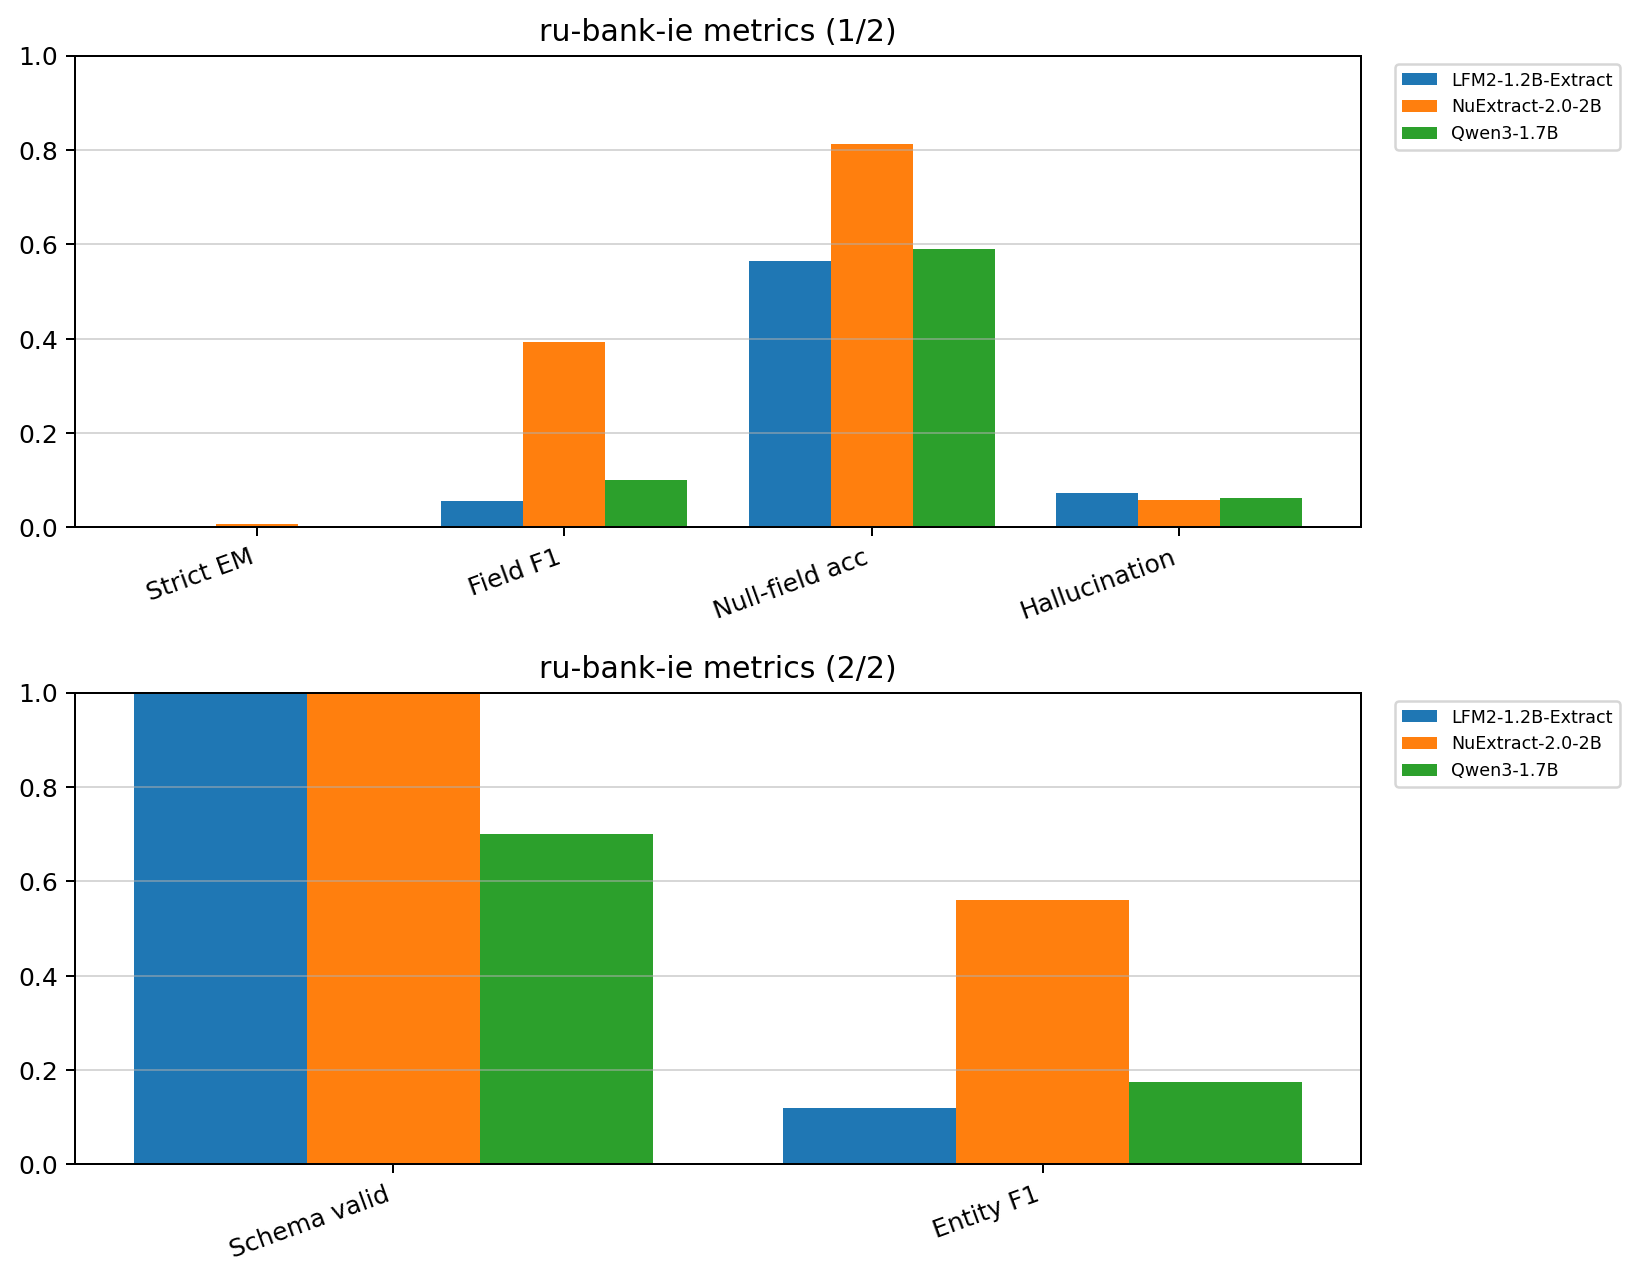
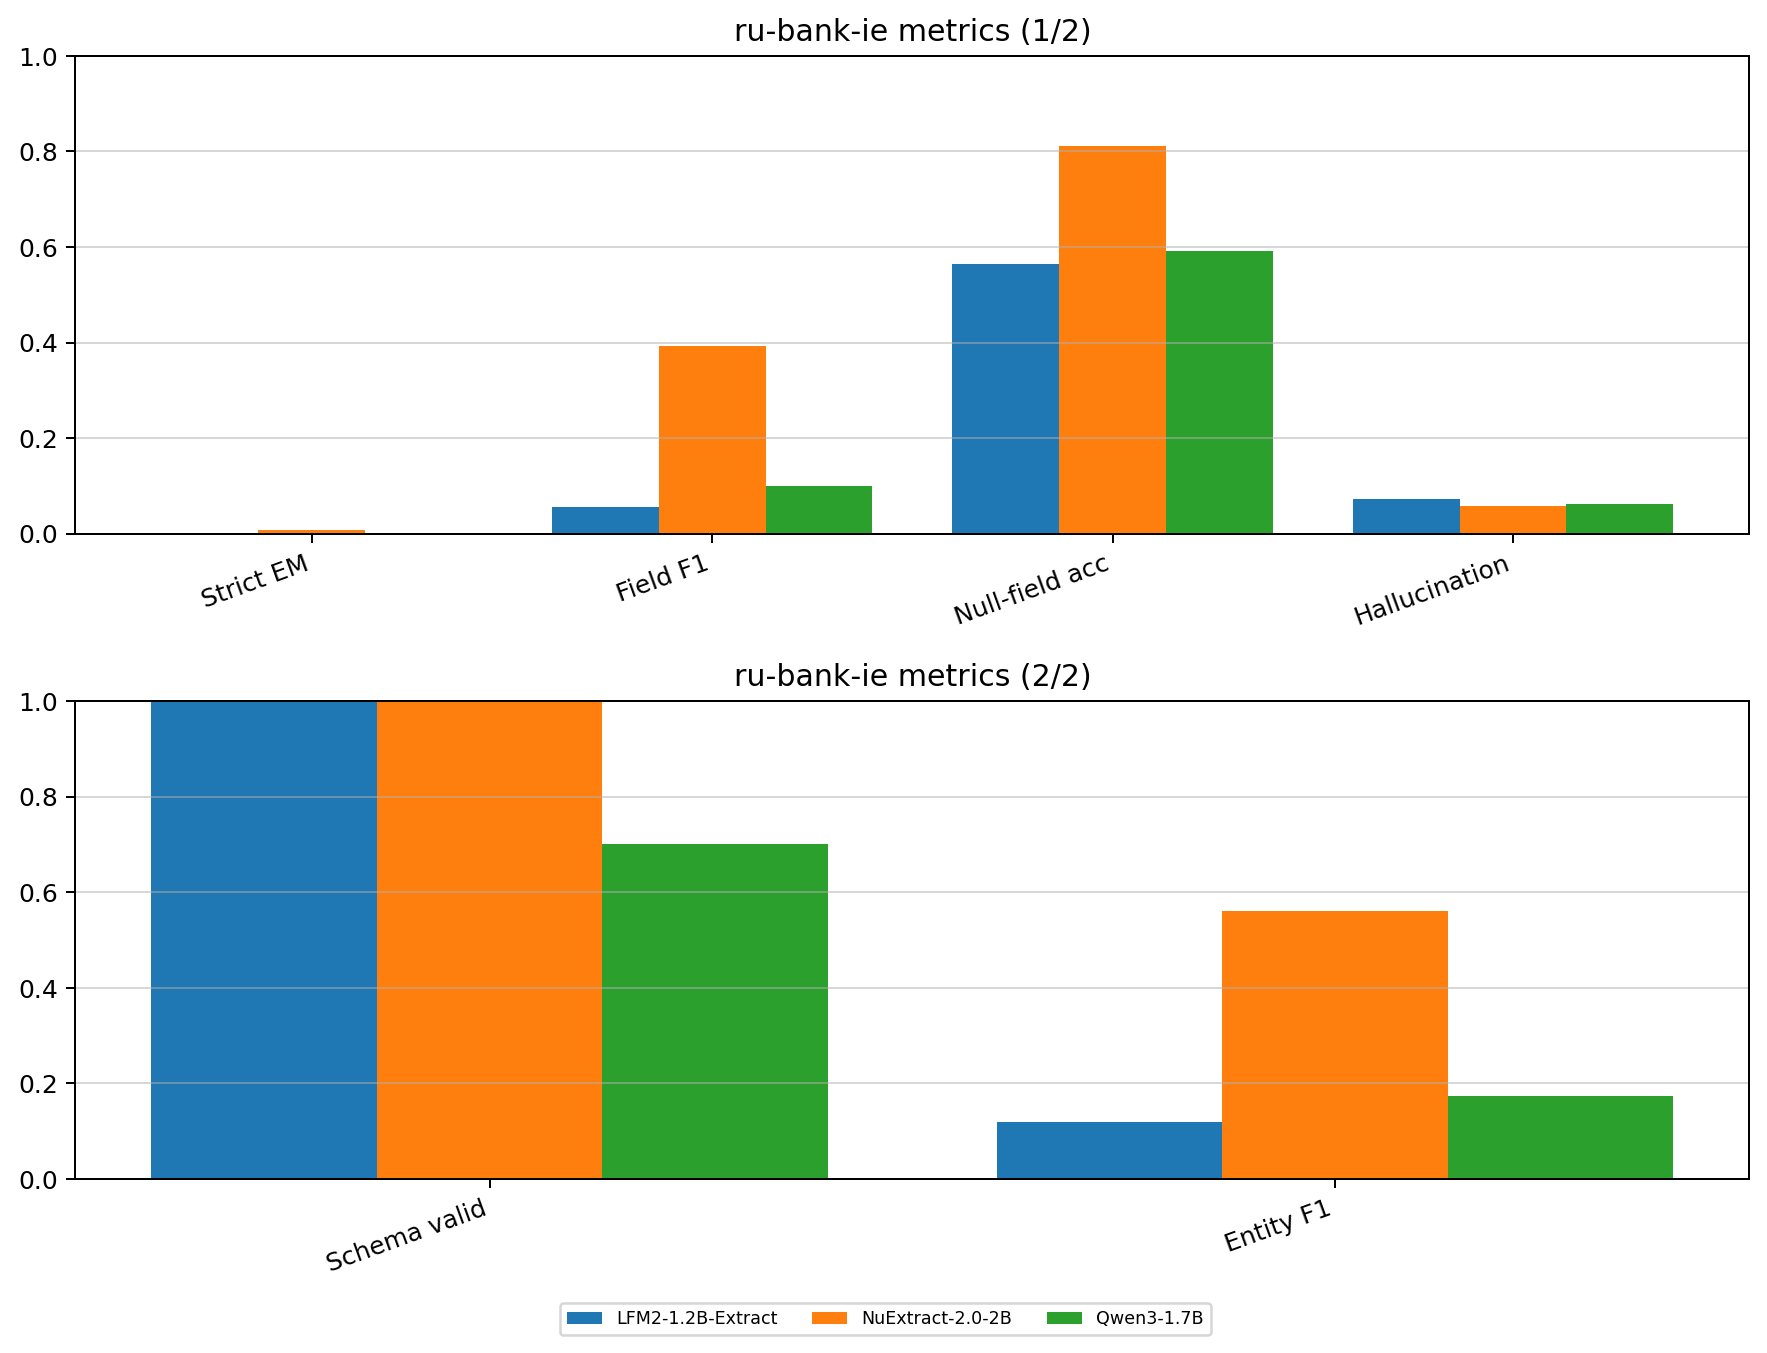
Split field F1 by label into four panels with bottom legend.

diff --git a/ie_slm_bench/plots.py b/ie_slm_bench/plots.py
@@ -72,6 +72,49 @@ DISPLAY_NAMES = {
     "LiquidAI/LFM2-1.2B-Extract": "LFM2-1.2B-Extract",
 }
 
+ADDRESS_LABEL_PREFIXES = (
+    "Адрес регистрации.",
+    "Адрес фактического проживания.",
+)
+
+LABEL_PLOT_PANELS = [
+    ("Identity", FIELD_GROUPS["Identity"]),
+    ("Passport", FIELD_GROUPS["Passport"]),
+    ("IDs, contact & addresses", FIELD_GROUPS["IDs & contact"]),
+    ("Work & assets", FIELD_GROUPS["Work"] + FIELD_GROUPS["Assets & family"]),
+]
+
+
+def _address_labels(all_labels: list[str]) -> list[str]:
+    return sorted(
+        label
+        for label in all_labels
+        if any(label.startswith(prefix) for prefix in ADDRESS_LABEL_PREFIXES)
+    )
+
+
+def _panel_field_labels(panel_title: str, panel_fields: list[str], all_labels: list[str]) -> list[str]:
+    if panel_title == "IDs, contact & addresses":
+        fields = list(panel_fields) + _address_labels(all_labels)
+        return sorted(dict.fromkeys(fields))
+    return [field for field in panel_fields if field in all_labels]
+
+
+def _legend_below(fig, axes, ncol: int = 3, fontsize: float = 8) -> None:
+    axis_list = list(axes) if hasattr(axes, "__iter__") and not isinstance(axes, plt.Axes) else [axes]
+    handles, labels = axis_list[0].get_legend_handles_labels()
+    if not handles:
+        return
+    fig.legend(
+        handles,
+        labels,
+        loc="upper center",
+        bbox_to_anchor=(0.5, 0.02),
+        ncol=ncol,
+        fontsize=fontsize,
+    )
+    fig.subplots_adjust(bottom=0.1)
+
 
 def load_summary_frames(run_dir: Path) -> pd.DataFrame:
     frames = []
@@ -107,7 +150,6 @@ def _plot_metric_groups(
     ax.set_ylim(0, 1)
     ax.set_title(title)
     ax.grid(axis="y", alpha=0.5)
-    ax.legend(fontsize=7, loc="upper left", bbox_to_anchor=(1.02, 1.0))
 
 
 def plot_metrics(summary: pd.DataFrame, out_path: Path) -> None:
@@ -126,38 +168,54 @@ def plot_metrics(summary: pd.DataFrame, out_path: Path) -> None:
         METRIC_COLUMNS[4:],
         title=f"{BENCHMARK} metrics (2/2)",
     )
-    fig.subplots_adjust(right=0.72, hspace=0.35)
+    fig.subplots_adjust(hspace=0.35)
+    _legend_below(fig, axes, ncol=3, fontsize=7)
     fig.savefig(out_path, dpi=180, bbox_inches="tight")
     plt.close(fig)
+
+
+def _plot_label_panel(
+    ax,
+    pivot: pd.DataFrame,
+    models: list[str],
+    field_labels: list[str],
+    title: str,
+) -> None:
+    if not field_labels:
+        ax.set_axis_off()
+        return
+    x = np.arange(len(field_labels))
+    width = 0.8 / max(len(models), 1)
+    for model_index, model_id in enumerate(models):
+        model_rows = pivot[pivot["model_id"] == model_id]
+        values = [
+            float(model_rows[model_rows["label"] == label]["f1"].mean())
+            if label in model_rows["label"].values
+            else 0.0
+            for label in field_labels
+        ]
+        offsets = x - 0.4 + width / 2 + model_index * width
+        display_name = DISPLAY_NAMES.get(model_id, model_id)
+        ax.bar(offsets, values, width=width, label=display_name)
+    ax.set_xticks(x)
+    ax.set_xticklabels(field_labels, rotation=35, ha="right", fontsize=7)
+    ax.set_ylim(0, 1)
+    ax.set_title(title)
+    ax.grid(axis="y", alpha=0.5)
 
 
 def plot_field_f1_by_label(per_label: pd.DataFrame, out_path: Path) -> None:
     if per_label.empty:
         return
     pivot = per_label.groupby(["model_id", "label"])["f1"].mean().reset_index()
-    labels = sorted(pivot["label"].unique())
+    all_labels = sorted(pivot["label"].unique())
     models = sorted(pivot["model_id"].unique())
-    x = np.arange(len(labels))
-    width = 0.8 / max(len(models), 1)
-    fig, ax = plt.subplots(figsize=(14, 5))
-    for model_index, model_id in enumerate(models):
-        model_rows = pivot[pivot["model_id"] == model_id]
-        values = [
-            model_rows[model_rows["label"] == label]["f1"].mean()
-            if label in model_rows["label"].values
-            else 0.0
-            for label in labels
-        ]
-        offsets = x - 0.4 + width / 2 + model_index * width
-        display_name = DISPLAY_NAMES.get(model_id, model_id)
-        ax.bar(offsets, values, width=width, label=display_name)
-    ax.set_xticks(x)
-    ax.set_xticklabels(labels, rotation=60, ha="right", fontsize=7)
-    ax.set_ylim(0, 1)
-    ax.set_title(f"{BENCHMARK} field F1 by label")
-    ax.grid(axis="y", alpha=0.5)
-    ax.legend(fontsize=7, loc="upper left", bbox_to_anchor=(1.02, 1.0))
-    fig.subplots_adjust(right=0.72)
+    fig, axes = plt.subplots(len(LABEL_PLOT_PANELS), 1, figsize=(12, 14))
+    for axis, (panel_title, panel_fields) in zip(axes, LABEL_PLOT_PANELS):
+        field_labels = _panel_field_labels(panel_title, panel_fields, all_labels)
+        _plot_label_panel(axis, pivot, models, field_labels, f"{BENCHMARK} field F1 — {panel_title}")
+    fig.subplots_adjust(hspace=0.55)
+    _legend_below(fig, axes, ncol=3, fontsize=8)
     fig.savefig(out_path, dpi=180, bbox_inches="tight")
     plt.close(fig)
 
@@ -187,8 +245,13 @@ def plot_field_group_f1(per_label: pd.DataFrame, out_path: Path) -> None:
     ax.set_ylim(0, 1)
     ax.set_title(f"{BENCHMARK} macro field F1 by field group")
     ax.grid(axis="y", alpha=0.5)
-    ax.legend(fontsize=8, loc="upper left", bbox_to_anchor=(1.02, 1.0))
-    fig.subplots_adjust(right=0.75)
+    ax.legend(
+        fontsize=8,
+        loc="upper center",
+        bbox_to_anchor=(0.5, -0.18),
+        ncol=3,
+    )
+    fig.subplots_adjust(bottom=0.22)
     fig.savefig(out_path, dpi=180, bbox_inches="tight")
     plt.close(fig)
 